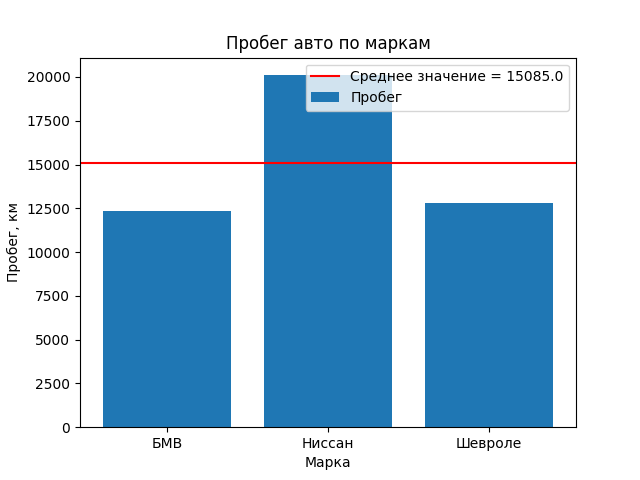
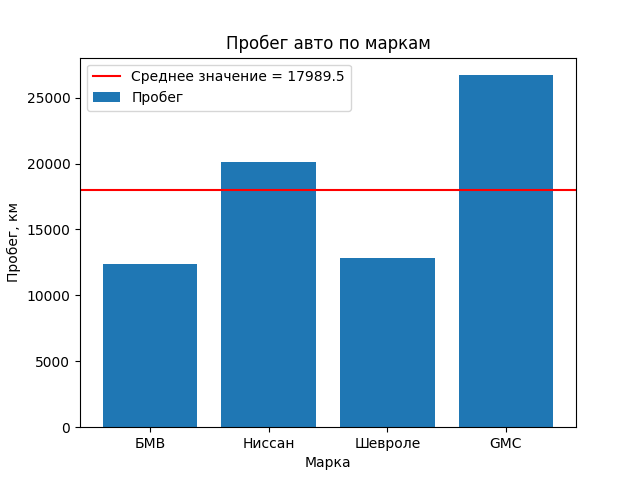
9 лаба чек

diff --git a/Laba9/main/templates/main/car.html b/Laba9/main/templates/main/car.html
@@ -13,6 +13,10 @@
         <h1>Автомобили</h1>
     </section>
 
+    <div style="margin-bottom: 12px;">
+        <button><a href="/">← На главную</a></button>
+    </div>
+
     <section class="panel">
         <div class="panel-head">
             <strong>Список автомобилей</strong>

diff --git a/Laba9/main/templates/main/driver.html b/Laba9/main/templates/main/driver.html
@@ -13,6 +13,10 @@
         <h1>Водители</h1>
     </section>
 
+    <div style="margin-bottom: 12px;">
+        <button><a href="/">← На главную</a></button>
+    </div>
+
     <section class="panel">
         <div class="panel-head">
             <strong>Список водителей</strong>

diff --git a/Laba9/main/templates/main/trip.html b/Laba9/main/templates/main/trip.html
@@ -13,6 +13,10 @@
         <h1>Поездки</h1>
     </section>
 
+    <div style="margin-bottom: 12px;">
+        <button><a href="/">← На главную</a></button>
+    </div>
+
     <section class="panel">
         <div class="panel-head">
             <strong>Список поездок</strong>

diff --git a/Laba9/main/views.py b/Laba9/main/views.py
@@ -1,6 +1,8 @@
 import os
 
 from django.db.models.aggregates import Sum
+from django.db.models import FloatField, Value
+from django.db.models.functions import Coalesce
 from django.shortcuts import render, redirect
 from django.views.generic import ListView
 
@@ -12,23 +14,23 @@ import matplotlib
 matplotlib.use('Agg')
 import matplotlib.pyplot as plt
 
+
 def index(request):
     car_all = Car.objects.all()
-    driver_all = Driver.objects.all()
     miles = []
     marks = []
-    sum_mil = 0
+    sum_mil = 0.0
+
     for car in car_all:
-        sum_mil += car.mileage
-        miles.append(car.mileage)
+        m = float(car.mileage or 0)
+        sum_mil += m
+        miles.append(m)
         marks.append(car.marks)
 
-    avg_mil = sum_mil/len(marks)
-
+    avg_mil = (sum_mil / len(marks)) if marks else 0.0
 
     plt.clf()
     plt.bar(marks, miles, label='Пробег')
-
     plt.axhline(y=avg_mil, label=f"Среднее значение = {avg_mil}", color='red')
     plt.title('Пробег авто по маркам')
     plt.xlabel('Марка')
@@ -36,31 +38,33 @@ def index(request):
     plt.legend()
 
     path = os.path.join(settings.BASE_DIR, "main", "static", "main", "gh", "graph_mil.png")
-
     plt.savefig(path)
 
-    c = Driver.objects.annotate(total_distance=Sum('trips__distance')
+    c = Driver.objects.annotate(
+        total_distance=Coalesce(Sum('trips__distance'), Value(0.0), output_field=FloatField())
     )
+
     name = []
     miles = []
-    sum_mil = 0
+    sum_mil = 0.0
+
     for driver in c:
-        sum_mil += driver.total_distance
-        miles.append(driver.total_distance)
+        d = float(driver.total_distance or 0)
+        sum_mil += d
+        miles.append(d)
         name.append(driver.name)
 
-    avg_mil = sum_mil / len(name)
+    avg_mil = (sum_mil / len(name)) if name else 0.0
+
     plt.clf()
     plt.bar(name, miles, label='Общий пробег')
     plt.axhline(y=avg_mil, label=f"Среднее значение = {avg_mil}", color='red')
-
     plt.title('Общий пробег')
     plt.xlabel('Имя')
     plt.ylabel('Пробег, км')
     plt.legend()
 
     path = os.path.join(settings.BASE_DIR, "main", "static", "main", "gh", "graph_name.png")
-
     plt.savefig(path)
 
     return render(request, 'main/index.html')
@@ -90,7 +94,7 @@ class DriverListView(ListView):
 
     def get_queryset(self):
         return Driver.objects.annotate(
-            total_distance=Sum('trips__distance')
+            total_distance=Coalesce(Sum('trips__distance'), Value(0.0), output_field=FloatField())
         )
 
 
